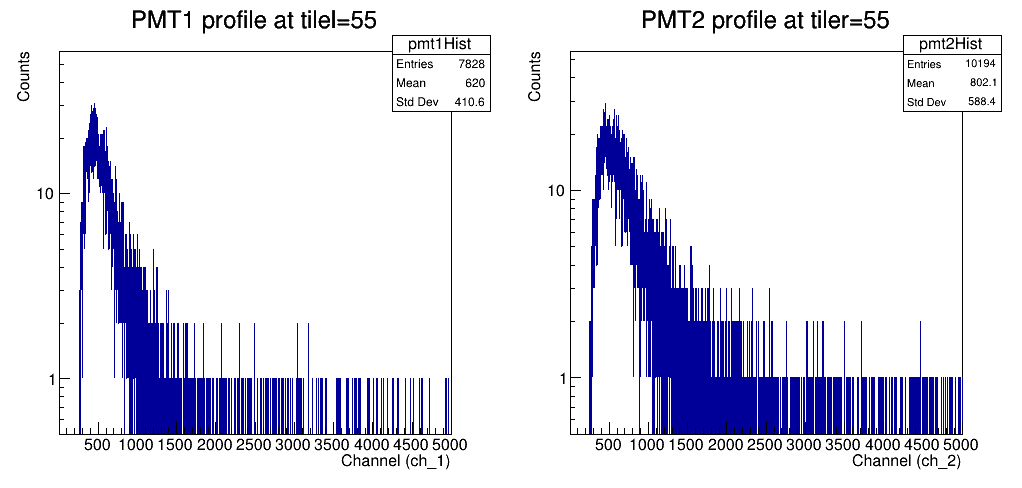
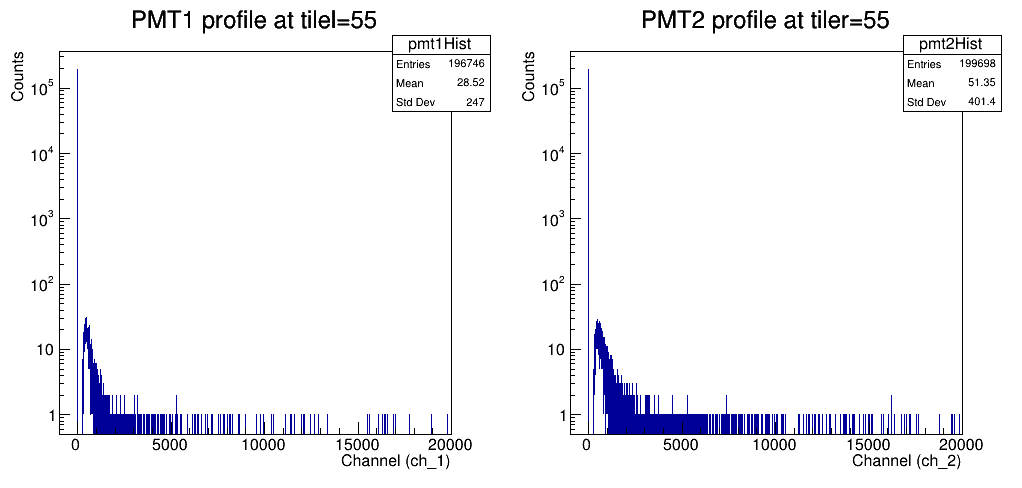
First fit of the Prototype spectrum

diff --git a/src/main.cpp b/src/main.cpp
@@ -42,7 +42,7 @@ int run(const char* fileName) {
 
 	// Prepare histograms for the PMT projection spectra
 	TString pmt1HistTitle = TString::Format("PMT1 profile at tilel=%d", Constants::getInstance()->parameters.tileProfile);
-	TH1* pmt1Hist = new TH1F("pmt1Hist", pmt1HistTitle, Constants::CH_MAX-Constants::CH_MIN, Constants::CH_FIT_MIN, Constants::CH_MAX);
+	TH1* pmt1Hist = new TH1F("pmt1Hist", pmt1HistTitle, Constants::CH_MAX-Constants::CH_MIN, Constants::CH_MIN, Constants::CH_MAX);
 	pmt1Hist->GetXaxis()->SetTitle("Channel (ch_1)");
 	pmt1Hist->GetYaxis()->SetTitle("Counts");
 	TString pmt2HistTitle = TString::Format("PMT2 profile at tiler=%d", Constants::getInstance()->parameters.tileProfile);
@@ -73,10 +73,11 @@ int run(const char* fileName) {
 	pmtsCanvas->SaveAs(pngFilePath);
 
 	// Remove zero bin noise on the PMT spectra
-	pmt1Hist->SetBinContent(1, 0);
-	pmt2Hist->SetBinContent(1, 0);
+	TH1* pmt1HistFit = HistUtils::cloneHistogram(pmt1Hist, "pmt1HistFit");
+	pmt1HistFit->SetBinContent(1, 0);
+	pmt1HistFit = HistUtils::trimHistogram(pmt1HistFit, 1, 5000);
 
-	FitUtils::doRooFit(pmt1Hist, kFALSE);
+	FitUtils::doRooFit(pmt1HistFit, kFALSE);
 
 	// AbsComponentFunc* funcObject = new FuncSRealNoTerm0(pmt1Hist);
 	// FitUtils::doFit(pmt1Hist, funcObject);

diff --git a/src/model/Constants.cpp b/src/model/Constants.cpp
@@ -65,10 +65,6 @@ const Int_t Constants::TILE_MAX = 146;
 const Int_t Constants::CH_MIN = -1000;
 const Int_t Constants::CH_MAX = 20000;
 
-// PMT fit spectra channel range (cutting off bin 1 with noise)
-const Int_t Constants::CH_FIT_MIN = 1;
-const Int_t Constants::CH_FIT_MAX = 5000;
-
 const Int_t Constants::AMP_MIN = 0;
 const Int_t Constants::AMP_MAX = 4096;
 

diff --git a/src/model/Constants.h b/src/model/Constants.h
@@ -44,9 +44,6 @@ class Constants {
 	static const Int_t CH_MIN;
 	static const Int_t CH_MAX;
 
-	static const Int_t CH_FIT_MIN;
-	static const Int_t CH_FIT_MAX;
-
 	static const Int_t AMP_MIN;
 	static const Int_t AMP_MAX;
 
